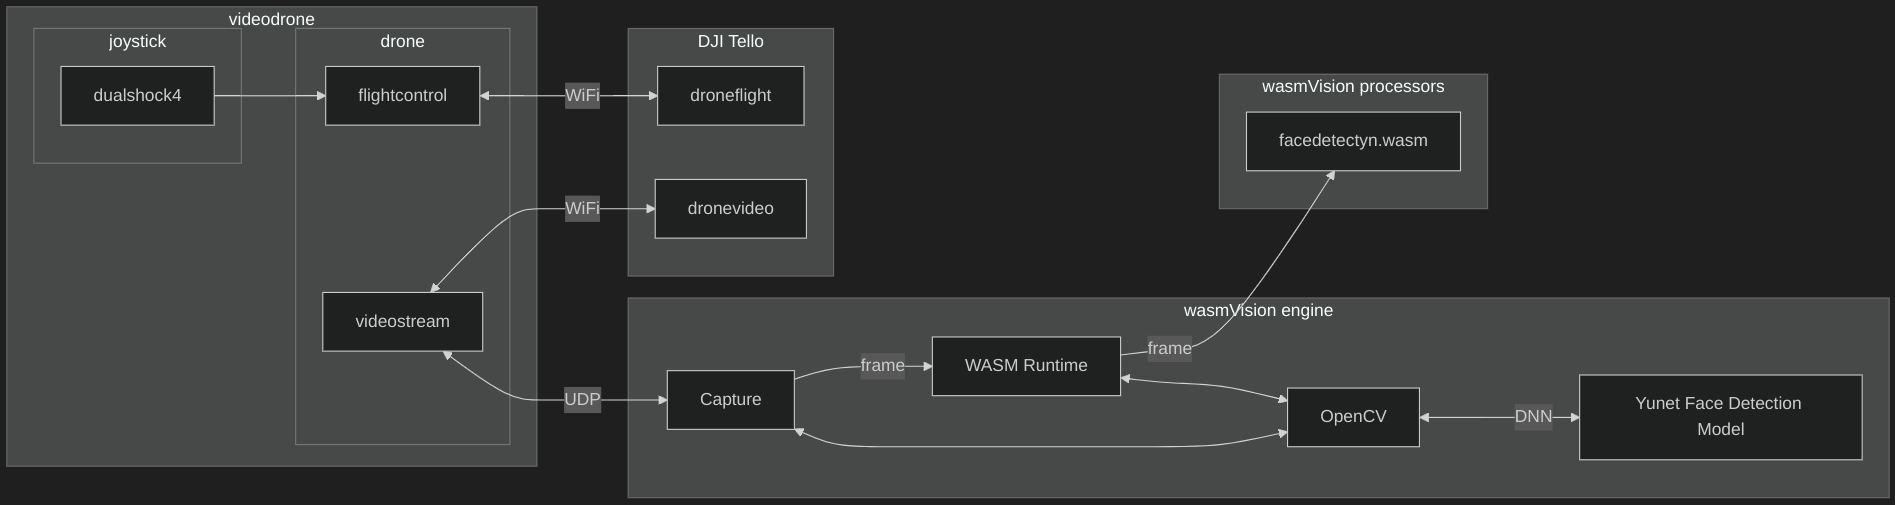
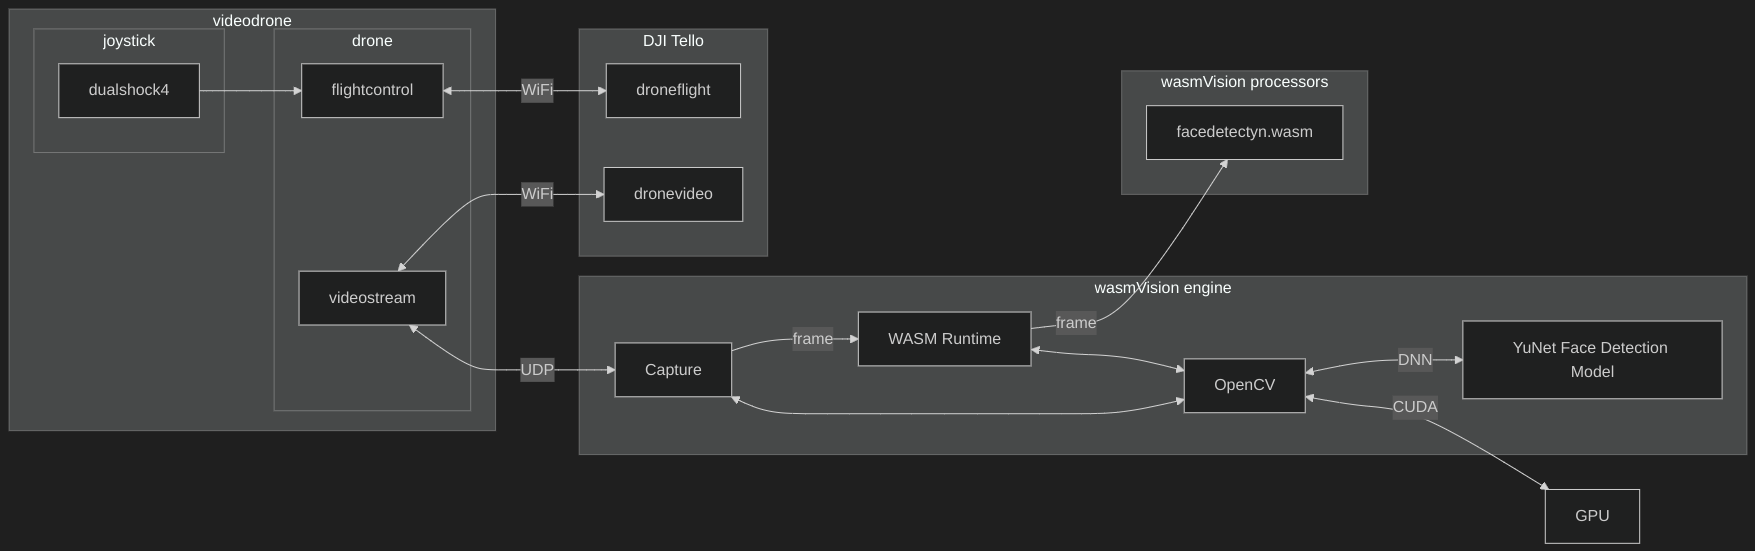
all: and now we have GPU

diff --git a/demo/videodrone/drone.go b/demo/videodrone/drone.go
@@ -29,9 +29,9 @@ func startDrone() {
 	drone.On(tello.ConnectedEvent, func(data interface{}) {
 		fmt.Println("Connected")
 		drone.StartVideo()
-		drone.SetVideoEncoderRate(tello.VideoBitRateAuto)
+		drone.SetVideoEncoderRate(tello.VideoBitRate4M)
 		drone.SetExposure(0)
-		gobot.Every(100*time.Millisecond, func() {
+		gobot.Every(1000*time.Millisecond, func() {
 			drone.StartVideo()
 		})
 	})

diff --git a/demo/videodrone/joystick.go b/demo/videodrone/joystick.go
@@ -46,8 +46,8 @@ func startJoystick() {
 	})
 
 	stick.On(joystick.CirclePress, func(data interface{}) {
-		drone.PalmLand()
-		println("Land")
+		drone.FrontFlip()
+		println("FrontFlip")
 	})
 
 	stick.On(joystick.LeftX, func(data interface{}) {

diff --git a/diagrams/wasmvision-ollama.md b/diagrams/wasmvision-ollama.md
@@ -3,9 +3,9 @@ flowchart LR
     subgraph wasmVision engine
         Capture
         Runtime[WASM Runtime]
-        Runtime<-->OpenCV
         Capture--frame-->Runtime
         Capture<-->OpenCV
+        Runtime<-->OpenCV
         Config
         Datastore
         OpenCV<--DNN-->DNN[Mosaic - Fast Neural Style Transfer Model]
@@ -22,4 +22,6 @@ flowchart LR
     ollama.wasm<-->Config
     ollama.wasm<-->Datastore
     captions.wasm<-->Datastore
+    OpenCV<--CUDA-->GPU
+    ollama<--CUDA-->GPU
 ```

diff --git a/diagrams/videodrone.md b/diagrams/videodrone.md
@@ -17,6 +17,7 @@ subgraph wasmVision engine
     Runtime<-->OpenCV
     OpenCV<--DNN-->YuNet[YuNet Face Detection Model]
 end
+OpenCV<--CUDA-->GPU
 subgraph wasmVision processors
     Runtime--frame-->facedetectyn.wasm
 end
